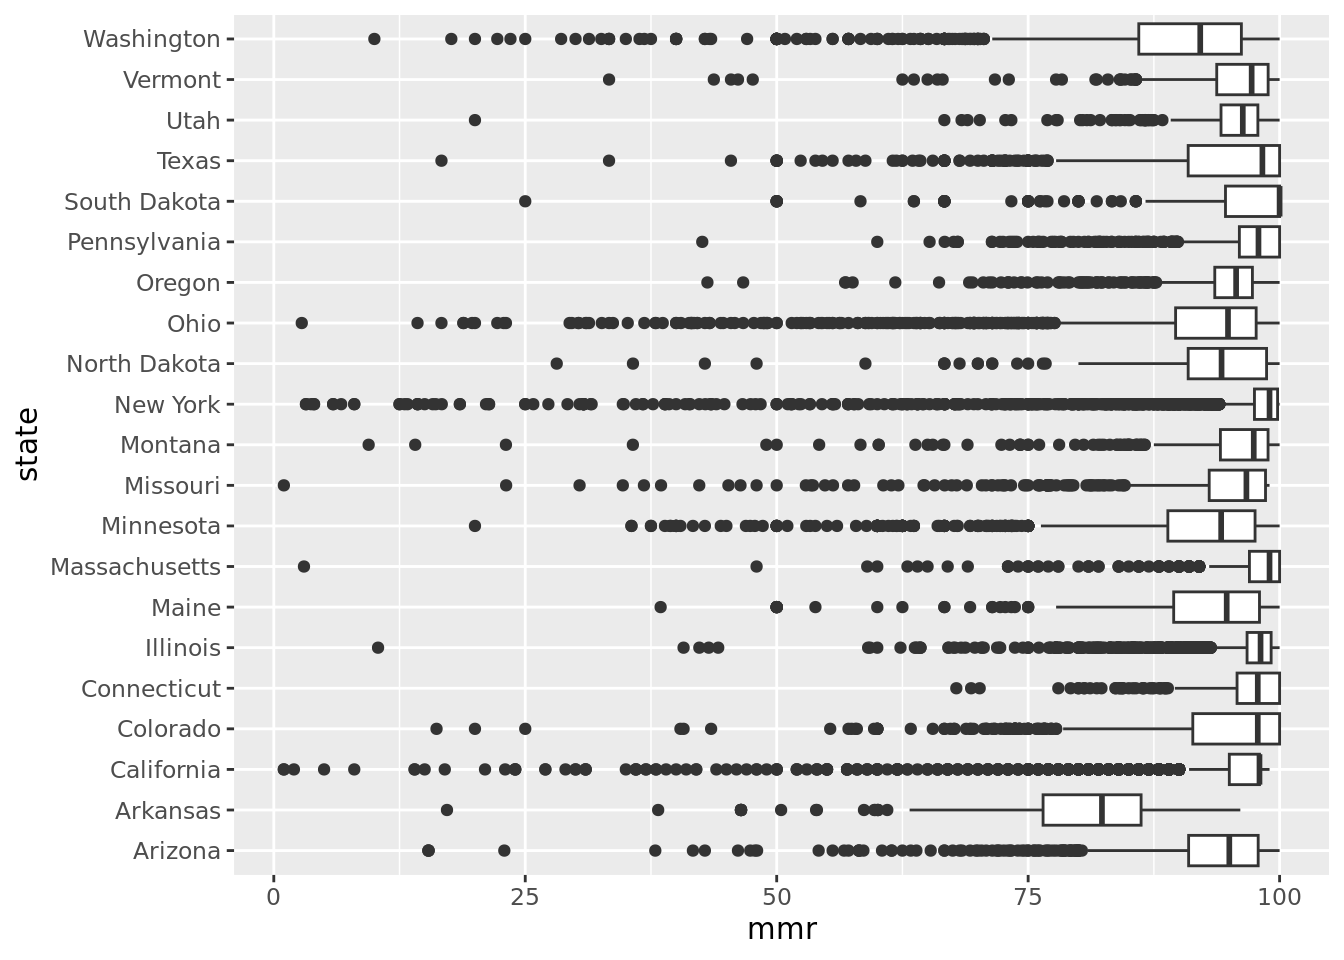
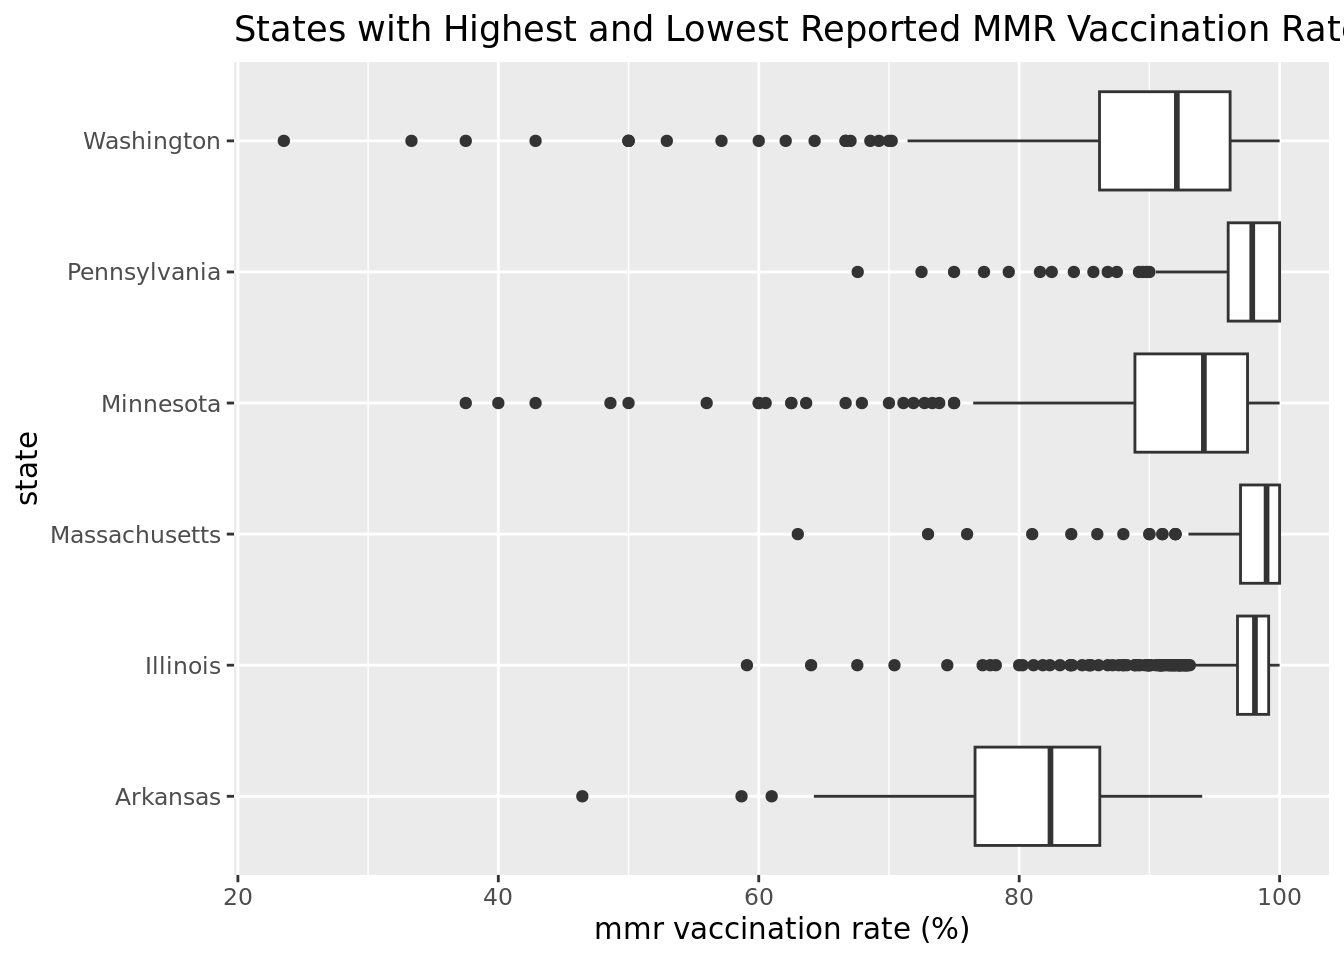
Figure 3 results added

diff --git a/docs/report.html b/docs/report.html
@@ -205,10 +205,10 @@ code span.wa { color: #60a0b0; font-weight: bold; font-style: italic; } /* Warni
 <p>Counties that don’t report vaccination rates</p>
 <p><strong>Motivation and Context</strong></p>
 <p>The motivation for this project stemmed from the measles dataset from tidytuesday. It was interesting to see how the data set categorically characterized the data. Our team imported the data into R and used the categories as a guide to make our plots and questions. The data as reported in the Wall Street Journal presents a map of measles vaccination rates in schools across the United States, showing that some schools have dangerously low vaccination rates, which increases the risk of measles outbreaks. The data is based on information from the 2018-2019 school year and includes public, private, and charter schools. According to the map, many of the schools with the lowest vaccination rates are in states such as Idaho, Utah, Colorado, and Oregon. The article also notes that measles cases have been on the rise in recent years, and emphasizes the importance of vaccination in preventing the spread of the highly contagious virus. Through this narrative and viewing the raw data we were able to form our hypothesis and question.</p>
-<p><strong>Research question and Hypotheses</strong></p>
 <p><strong>Ethical Issues</strong></p>
 <p>Vaccination data is listed under HIPAA as protected health information and therefore cannot be shared without patient consent. In certain areas, vaccine data is not required for schools as well. The data may also be used to discriminate against certain areas unjustly. The sample population does not all benefit equally from our research. Some areas may also be more or less receptive to revealing their vaccination information so the study may not impact our target population equally.</p>
 <p><strong>Citing Sources</strong></p>
+<p>[1] “Urban Percentage of the Population for States, Historical.” Iowa State University | Iowa Community Indicators Program, Iowa State University, www.icip.iastate.edu/tables/population/urban-pct-states.</p>
 </section>
 <section id="methodology" class="level2">
 <h2 class="anchored" data-anchor-id="methodology">Methodology</h2>
@@ -370,19 +370,79 @@ the `.groups` argument.</code></pre>
 <div class="sourceCode cell-code" id="cb20"><pre class="sourceCode r code-with-copy"><code class="sourceCode r"><span id="cb20-1"><a href="#cb20-1" aria-hidden="true" tabindex="-1"></a>mean_measles_state <span class="ot">&lt;-</span> measles_state <span class="sc">|&gt;</span></span>
 <span id="cb20-2"><a href="#cb20-2" aria-hidden="true" tabindex="-1"></a>  <span class="fu">summarise</span>(<span class="at">mean_mmr =</span> <span class="fu">mean</span>(mmr)) </span>
 <span id="cb20-3"><a href="#cb20-3" aria-hidden="true" tabindex="-1"></a></span>
-<span id="cb20-4"><a href="#cb20-4" aria-hidden="true" tabindex="-1"></a>measles_state <span class="sc">|&gt;</span></span>
-<span id="cb20-5"><a href="#cb20-5" aria-hidden="true" tabindex="-1"></a>  <span class="fu">ggplot</span>(</span>
-<span id="cb20-6"><a href="#cb20-6" aria-hidden="true" tabindex="-1"></a>    <span class="fu">aes</span>(<span class="at">x =</span> mmr, <span class="at">y =</span> state)) <span class="sc">+</span></span>
-<span id="cb20-7"><a href="#cb20-7" aria-hidden="true" tabindex="-1"></a>  <span class="fu">geom_boxplot</span>()</span></code><button title="Copy to Clipboard" class="code-copy-button"><i class="bi"></i></button></pre></div>
+<span id="cb20-4"><a href="#cb20-4" aria-hidden="true" tabindex="-1"></a>high_low_state_mean <span class="ot">&lt;-</span> measles_state <span class="sc">|&gt;</span></span>
+<span id="cb20-5"><a href="#cb20-5" aria-hidden="true" tabindex="-1"></a>  <span class="fu">filter</span>(state <span class="sc">==</span> <span class="fu">c</span>(<span class="st">"Illinois"</span>, <span class="st">"Massachusetts"</span>, <span class="st">"Pennsylvania"</span>, <span class="st">"Arkansas"</span>, </span>
+<span id="cb20-6"><a href="#cb20-6" aria-hidden="true" tabindex="-1"></a>                    <span class="st">"Washington"</span>, <span class="st">"Minnesota"</span>))</span></code><button title="Copy to Clipboard" class="code-copy-button"><i class="bi"></i></button></pre></div>
+<div class="cell-output cell-output-stderr">
+<pre><code>Warning in state == c("Illinois", "Massachusetts", "Pennsylvania", "Arkansas", :
+longer object length is not a multiple of shorter object length
+
+Warning in state == c("Illinois", "Massachusetts", "Pennsylvania", "Arkansas", :
+longer object length is not a multiple of shorter object length
+
+Warning in state == c("Illinois", "Massachusetts", "Pennsylvania", "Arkansas", :
+longer object length is not a multiple of shorter object length
+
+Warning in state == c("Illinois", "Massachusetts", "Pennsylvania", "Arkansas", :
+longer object length is not a multiple of shorter object length
+
+Warning in state == c("Illinois", "Massachusetts", "Pennsylvania", "Arkansas", :
+longer object length is not a multiple of shorter object length
+
+Warning in state == c("Illinois", "Massachusetts", "Pennsylvania", "Arkansas", :
+longer object length is not a multiple of shorter object length
+
+Warning in state == c("Illinois", "Massachusetts", "Pennsylvania", "Arkansas", :
+longer object length is not a multiple of shorter object length
+
+Warning in state == c("Illinois", "Massachusetts", "Pennsylvania", "Arkansas", :
+longer object length is not a multiple of shorter object length
+
+Warning in state == c("Illinois", "Massachusetts", "Pennsylvania", "Arkansas", :
+longer object length is not a multiple of shorter object length
+
+Warning in state == c("Illinois", "Massachusetts", "Pennsylvania", "Arkansas", :
+longer object length is not a multiple of shorter object length
+
+Warning in state == c("Illinois", "Massachusetts", "Pennsylvania", "Arkansas", :
+longer object length is not a multiple of shorter object length
+
+Warning in state == c("Illinois", "Massachusetts", "Pennsylvania", "Arkansas", :
+longer object length is not a multiple of shorter object length
+
+Warning in state == c("Illinois", "Massachusetts", "Pennsylvania", "Arkansas", :
+longer object length is not a multiple of shorter object length
+
+Warning in state == c("Illinois", "Massachusetts", "Pennsylvania", "Arkansas", :
+longer object length is not a multiple of shorter object length
+
+Warning in state == c("Illinois", "Massachusetts", "Pennsylvania", "Arkansas", :
+longer object length is not a multiple of shorter object length
+
+Warning in state == c("Illinois", "Massachusetts", "Pennsylvania", "Arkansas", :
+longer object length is not a multiple of shorter object length
+
+Warning in state == c("Illinois", "Massachusetts", "Pennsylvania", "Arkansas", :
+longer object length is not a multiple of shorter object length</code></pre>
+</div>
+<div class="sourceCode cell-code" id="cb22"><pre class="sourceCode r code-with-copy"><code class="sourceCode r"><span id="cb22-1"><a href="#cb22-1" aria-hidden="true" tabindex="-1"></a>high_low_state_mean <span class="sc">|&gt;</span></span>
+<span id="cb22-2"><a href="#cb22-2" aria-hidden="true" tabindex="-1"></a>  <span class="fu">ggplot</span>(</span>
+<span id="cb22-3"><a href="#cb22-3" aria-hidden="true" tabindex="-1"></a>    <span class="fu">aes</span>(<span class="at">x =</span> mmr, <span class="at">y =</span> state)) <span class="sc">+</span></span>
+<span id="cb22-4"><a href="#cb22-4" aria-hidden="true" tabindex="-1"></a>  <span class="fu">geom_boxplot</span>() <span class="sc">+</span> </span>
+<span id="cb22-5"><a href="#cb22-5" aria-hidden="true" tabindex="-1"></a>  <span class="fu">labs</span>(<span class="at">x =</span> <span class="st">"mmr vaccination rate (%)"</span>,</span>
+<span id="cb22-6"><a href="#cb22-6" aria-hidden="true" tabindex="-1"></a>       <span class="at">y =</span> <span class="st">"state"</span>,</span>
+<span id="cb22-7"><a href="#cb22-7" aria-hidden="true" tabindex="-1"></a>       <span class="at">title =</span> <span class="st">"States with Highest and Lowest Reported MMR Vaccination Rates"</span>)</span></code><button title="Copy to Clipboard" class="code-copy-button"><i class="bi"></i></button></pre></div>
 <div class="cell-output-display">
 <p><img src="report_files/figure-html/plot_measles_state-1.png" class="img-fluid" width="672"></p>
 </div>
 </div>
+<p>Figure 3. This plot represents the six states with the highest and lowest MMR vaccination rates from the total states sampled. The states with the lowest reported MMR vaccination rates was Arkansas, Washington, and Minnesota. The states with the highest reported MMR vaccination rates was Massachusetts, Illinois, and Pennsylvania.</p>
 </section>
 <section id="results" class="level2">
 <h2 class="anchored" data-anchor-id="results">Results</h2>
 <p>Figure 1 - This visualization answers the 1st research question by showing which states have a high percentage of mmr vaccination rates across different schools (such as Ohio), and states that have a low percentage (such as Florida). Though Ohio and Florida don’t show much variability across different schools, California does show a lot of variability. Overall, this shows a general map of how mmr vaccination rates differ across different regions in the US.</p>
 <p>Figure 2 - The graph showing the average vaccination rates between private and public schools seems to show a higher average vaccination rate for public schools. This is possibly due to local government rules and control over public schools in which students may be mandated to get vaccinated. Whereas in private schools it may have been more up to choice and out of government control.</p>
+<p>Figure 3 - To explore if there is a relationship between urban and rural status and MMR vaccination rate, first, the states with the highest (Massachusetts, Illinois, and Pennsylvania) and lowest (Arkansas, Washington, and Minnesota) mean MMR vaccination rates were plotted. On its own this does not display any relation of urban or rural status to percentage of MMR vaccination rates, so information, provided by Iowa State University, on the 2010 U.S. Decenial Cenus was referenced [1]. The percentage of the total population in urban areas per each state was found: Massachusetts (92%), Illinois (88.5%), Pennsylvania (78.7%), Arkansas (56.2%), Washington (84.1%), and Minnesota (73.3%). There appears to be a weak correlation between urban/rural status of each state and MMR vaccination rate, but to a slight degree there is a trend. For instance, the state with the most drastic difference in mean MMR vaccination rate is Arkansas (80.49%) when compared to states with the highest mean MMR vaccination rates (&gt;95%). Relatedely, Arkansas also has a significantly lower percentage of the total population in urban areas. States like Massachusetts and Illinois hold comparably higher percentages of the total population in urban areas <em>and</em> hold the highest mean MMR vaccination rates, 97.04% &amp; 97.39% respectively. However, states like Washington weaken the correlation by having a high percentage of the total population in urban areas, but reporting a comparably low mean MMR vaccination rate (89.3%).</p>
 <p>Full disclosure: In the first visualization, there are some data points in Asia, suggesting that some of the schools are located in Asia, but we are working on removing these. Also, for now the first visualization has “eval: FALSE” to facilitate pushing and pulling on GitHub (leaflet takes up a lot of space).</p>
 
 
